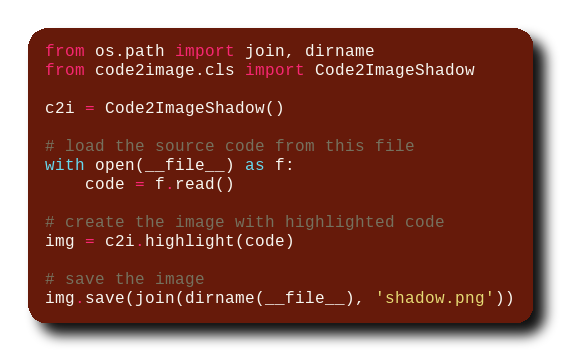
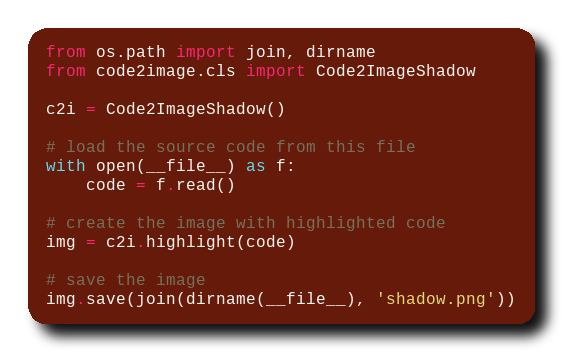
make the round corner adaptiv

diff --git a/code2image/cls.py b/code2image/cls.py
@@ -73,10 +73,10 @@ class Code2Image(Code2ImageBasic):
 
     def highlight(self, code):
         img = super(Code2Image, self).highlight(code)
-        m = tuple([round(s*1.03) for s in img.size])
+        m = tuple([round(s*1.035) for s in img.size])
         background = Image.new("RGBA", m)
         draw = ImageDraw.Draw(background)
-        rounded_rectangle(draw, ((0, 0), m), 20, fill=self.code_bg)
+        rounded_rectangle(draw, ((0, 0), m), round(max(img.size)*0.04), fill=self.code_bg)
         background.paste(
             img, ((m[0] - img.size[0]) // 2, (m[1] - img.size[1]) // 2)
         )
